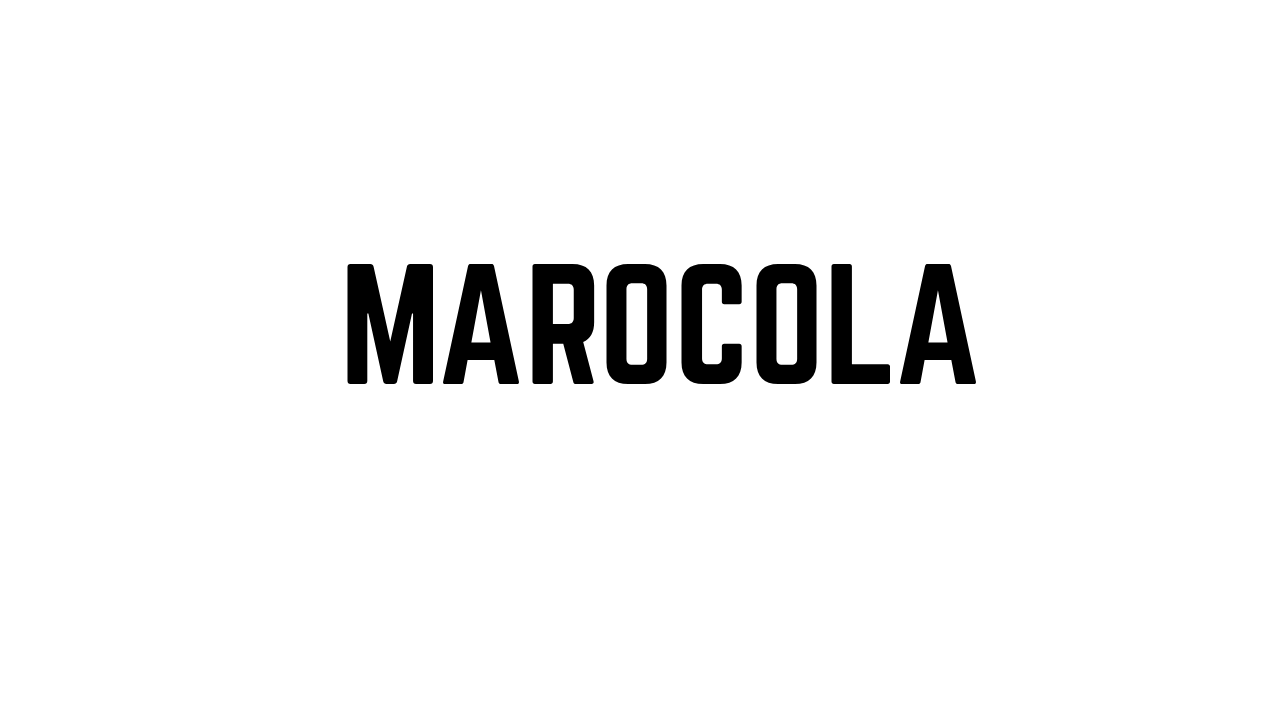
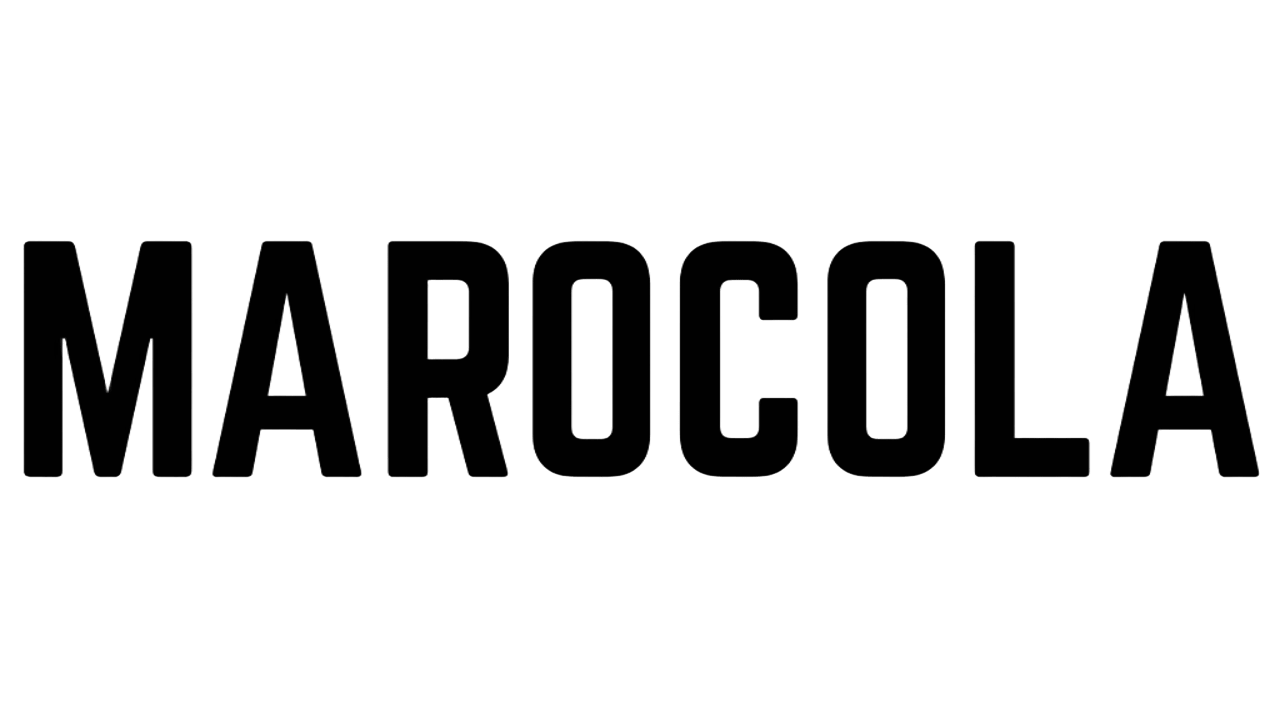
Test mail

Changed region(s): [[0.0, 0.3361, 1.0, 0.6722]]

diff --git a/tombola-site/app/api/notifications/route.ts b/tombola-site/app/api/notifications/route.ts
@@ -49,9 +49,9 @@ export async function POST(req: NextRequest) {
                     <!-- Image Marocola -->
                     <td style="padding-left: 10px; vertical-align: middle;">
                       <a href="${process.env.NEXT_PUBLIC_URL}" style="text-decoration: none;">
-                        <img src="${process.env.NEXT_PUBLIC_URL}/img/ui/marocola-title.png" 
+                        <img src="https://tombola-maroc.vercel.app/img/ui/marocola-title.png" 
                              alt="Marocola" 
-                             style="display: block; width: auto; height: 60px;">
+                             style="display: block; width: auto; height: 120px;">
                       </a>
                     </td>
                   </tr>

diff --git a/tombola-site/app/components/Navbar.tsx b/tombola-site/app/components/Navbar.tsx
@@ -40,7 +40,7 @@ export default function Navbar() {
             <div className="max-w-8xl mx-auto px-6 py-4 flex justify-between items-center">
                 <Link href="/" className="flex items-center gap-4 text-4xl text-gray-800" onClick={handleLinkClick}  style={{ fontFamily: 'Norwester'}}>
                     <Image src="/img/ticket/ticket.png" alt="Ticket" width={100} height={100} />
-                    <span>Marocola</span>
+                    <span>MAROCOLA</span>
                     <Image src="/img/ui/maroc.png" alt="Maroc" width={24} height={24} />
                 </Link>
 
